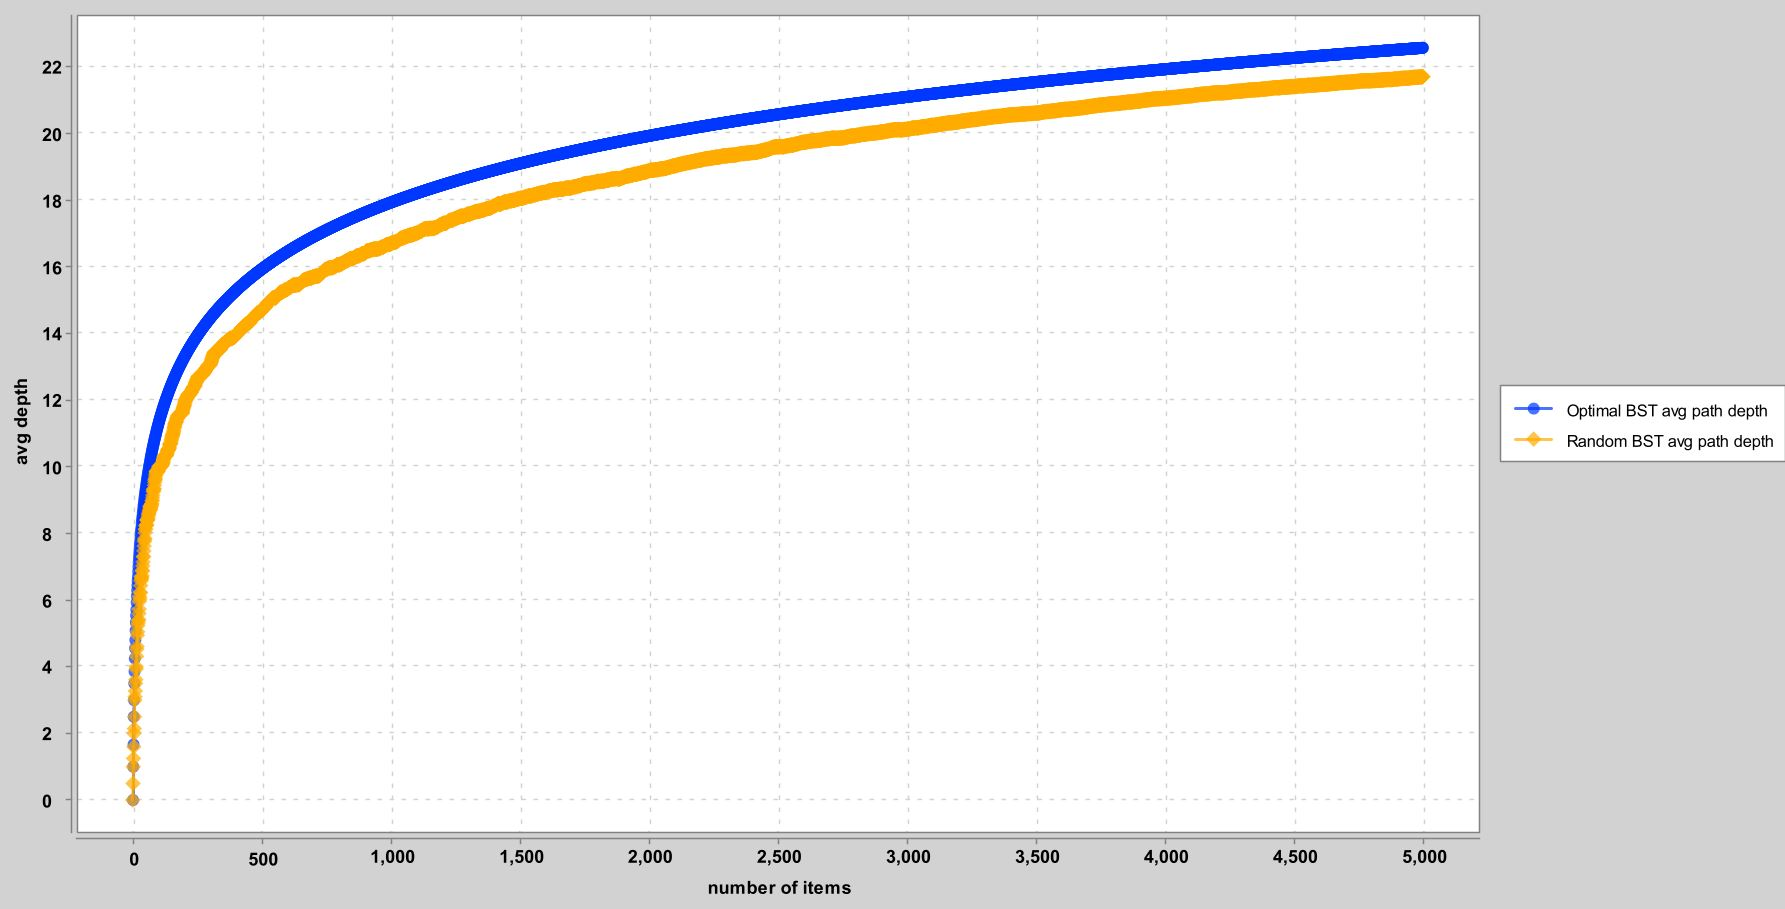
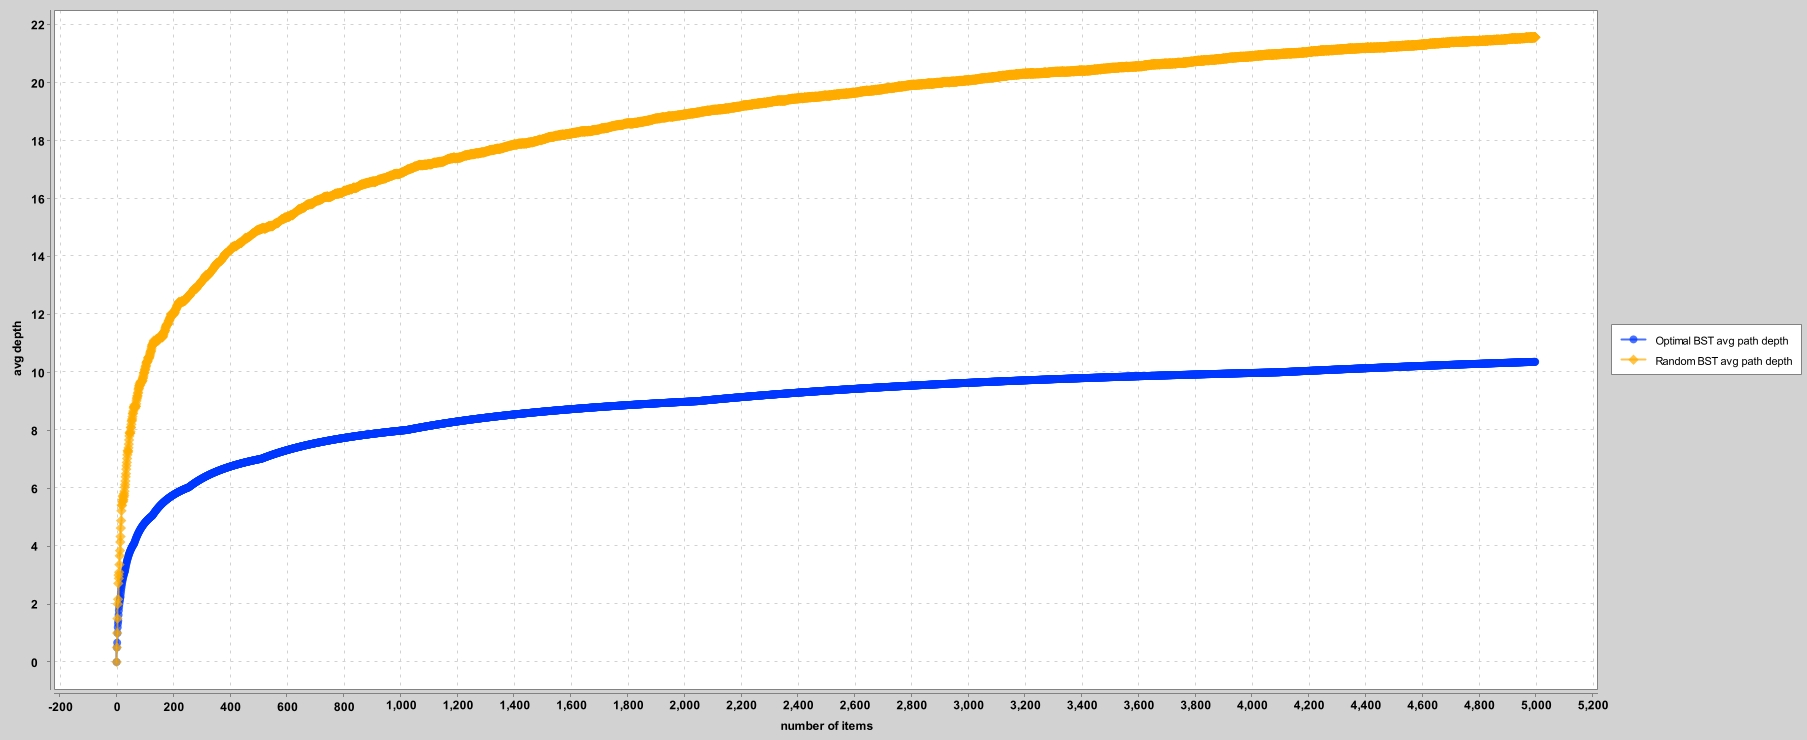
debug OptimalIPL method

Changed region(s): [[0.0, 0.0, 1.0, 0.9946]]

diff --git a/clab7/Experiments.java b/clab7/Experiments.java
@@ -17,25 +17,48 @@ public class Experiments {
     public static void experiment1() {
         List<Double> avgdepth = new ArrayList<>();
         List<Integer> n = new ArrayList<>();
+        List<Integer> bstSize = new ArrayList<>();
         List<Double> bstDepth = new ArrayList<>();
         BST<Integer> bst = new BST<>();
+        RandomGenerator r = new RandomGenerator();
         for(int i = 0; i < 5000; i += 1) {
-            Random r = new Random();
-            bst.add(r.nextInt());
             n.add(i);
             avgdepth.add(ExperimentHelper.optimalAverageDepth(i));
+        }
+        while(bst.size() < 5000) {
+            bst.add(r.getRandomInt(10000));
+            bstSize.add(bst.size());
             bstDepth.add(bst.averageDepth());
         }
 
         XYChart chart = new XYChartBuilder().width(1200).height(600).xAxisTitle("number of items").yAxisTitle("avg depth").build();
         chart.addSeries("Optimal BST avg path depth", n, avgdepth);
-        chart.addSeries("Random BST avg path depth", n, bstDepth);
+        chart.addSeries("Random BST avg path depth", bstSize, bstDepth);
 
         new SwingWrapper(chart).displayChart();
 
     }
 
     public static void experiment2() {
+        BST<Integer> bst = new BST<>();
+        List<Double> bstDepth = new ArrayList<>();
+        List<Integer> operations = new ArrayList<>();
+        Random r = new Random();
+        int intialSize = 5000;
+        int M = 10;
+        for(int i = 0; i < intialSize; i += 1) {
+            bst.add(r.nextInt());
+        }
+        bstDepth.add(bst.averageDepth());
+        operations.add(0);
+        for(int i = 0; i < M; i += 1) {
+            ExperimentHelper.randomInsertAndDelete(bst);
+            bstDepth.add(bst.averageDepth());
+            operations.add(i + 1);
+        }
+        XYChart chart = new XYChartBuilder().width(1200).height(600).xAxisTitle("number of operations").yAxisTitle("BST avg depth").build();
+        chart.addSeries("Random delete and insert BST", operations, bstDepth);
+        new SwingWrapper(chart).displayChart();
     }
 
     public static void experiment3() {
@@ -43,6 +66,6 @@ public class Experiments {
 
     public static void main(String[] args) {
         experiment1();
-
+//        experiment2();
     }
 }

diff --git a/clab7/ExperimentHelper.java b/clab7/ExperimentHelper.java
@@ -1,4 +1,4 @@
-
+import java.util.Random;
 /**
  * Created by hug.
  */
@@ -16,12 +16,16 @@ public class ExperimentHelper {
      *  N = 8, OIPL: 13
      */
     public static int optimalIPL(int N) {
-        double sum = 0;
-        for(double i = (Math.log(N) / Math.log(2)); i >= 0; i-- ) {
-            sum += Math.pow(2, i) * i;
-        }
+        int[] OIPL = new int[N + 1];
+        for(int i = 1; i < OIPL.length; i ++) {
+            if(i == 1) {
+                OIPL[i] = 0;
+            } else {
+                OIPL[i] = (int) Math.floor((Math.log(i) / Math.log(2))) + OIPL[i-1];
+            }
 
-        return (int)sum;
+        }
+        return OIPL[N];
     }
 
     /** Returns the average depth for nodes in an optimal BST of
@@ -34,5 +38,18 @@ public class ExperimentHelper {
      */
     public static double optimalAverageDepth(int N) {
         return (double) optimalIPL(N) / N;
+    }
+
+    public static void randomInsertAndDelete(BST<Integer> bst) {
+        Random r = new Random();
+        int deleted = r.nextInt();
+        if(bst.contains(deleted)) {
+            bst.deleteTakingSuccessor(deleted);
+        }
+        bst.add(r.nextInt());
+    }
+
+    public static void main(String[] args) {
+        optimalIPL(8);
     }
 }
